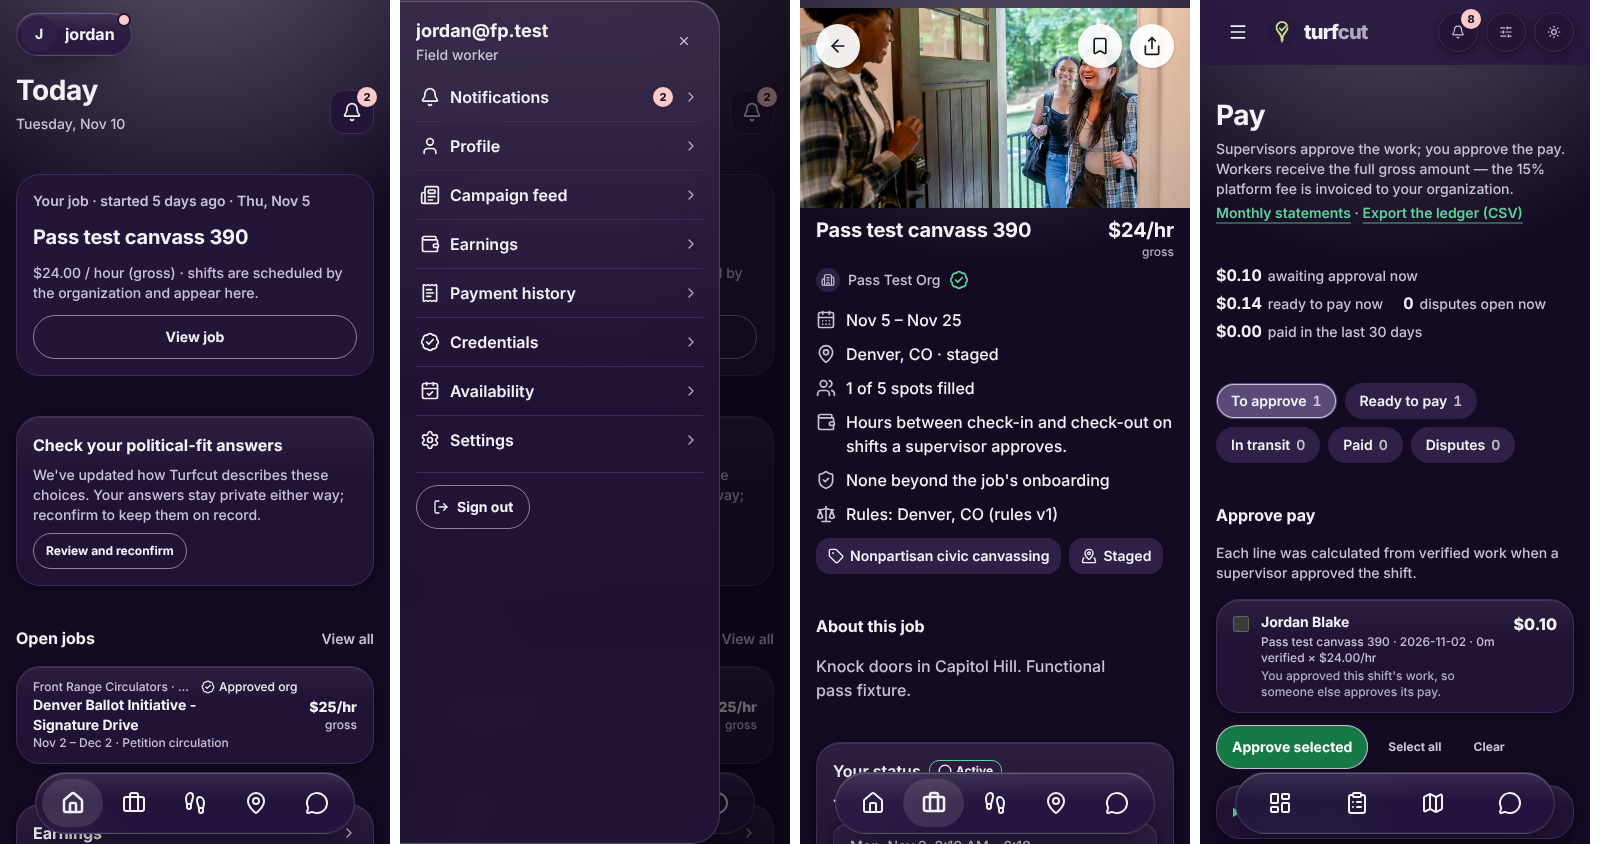
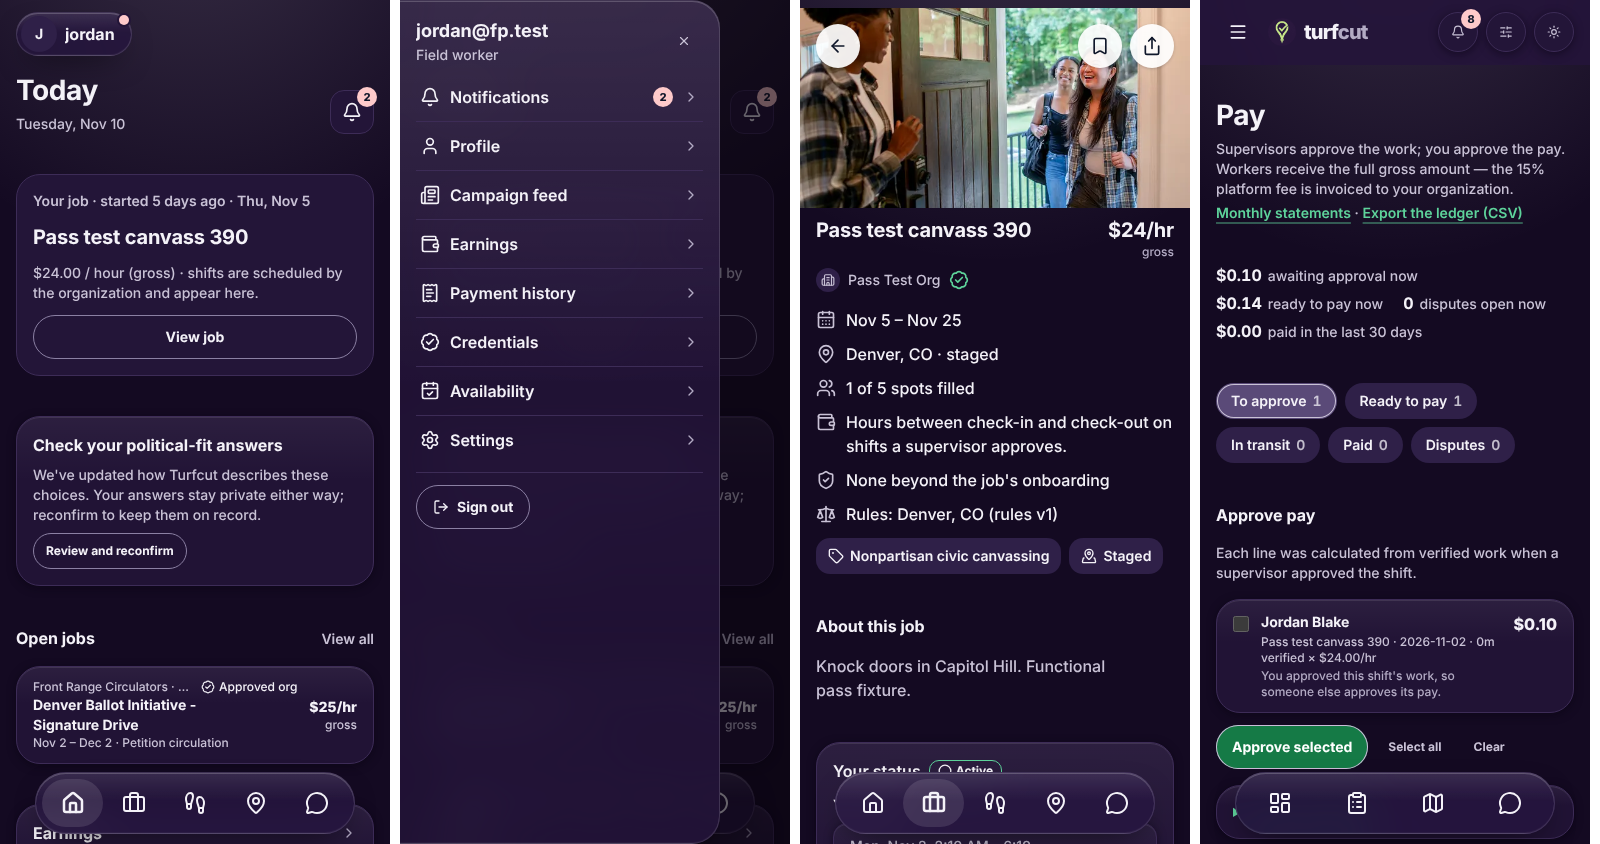
Liquid Glass: review fixes
Fields keep the page's hairline; bars with small grey text are a denser pane
(tested against the worst case behind them); a gentler page wash; the header
returns to the page colour when solid; the dock gets an ink edge; no nested
blur; solid swipe cards.

Claude-Session: https://claude.ai/code/session_01M5jonG7B326Ty4GJKyZ5gK

Changed region(s): [[0.0312, 0.0, 0.2188, 0.0616], [0.5312, 0.0, 0.6875, 0.0308]]

diff --git a/src/app/globals.css b/src/app/globals.css
@@ -189,13 +189,14 @@
   /* Liquid Glass by night: a dimmer pane, a fainter lit edge. */
   --glass-bg: color-mix(in srgb, var(--surface) 74%, transparent);
   --glass-bg-strong: color-mix(in srgb, var(--surface) 82%, transparent);
+  --glass-bg-bar: color-mix(in srgb, var(--surface) 88%, transparent);
   --glass-border: rgb(255 255 255 / 0.14);
   --glass-highlight: inset 0 1px 0 rgb(255 255 255 / 0.2), inset 0 -1px 0 rgb(255 255 255 / 0.04), 0 12px 32px -14px rgb(0 0 0 / 0.7);
   --glass-sheen: linear-gradient(180deg, rgb(255 255 255 / 0.1), rgb(255 255 255 / 0) 46%);
   --card-bg: color-mix(in srgb, var(--surface) 88%, transparent);
   --card-edge: inset 0 1px 0 rgb(255 255 255 / 0.1);
   --card-sheen: linear-gradient(180deg, rgb(255 255 255 / 0.05), rgb(255 255 255 / 0) 38%);
-  --page-wash: radial-gradient(130% 34rem at 50% -8rem, color-mix(in srgb, var(--ring) 38%, transparent), transparent 72%);
+  --page-wash: radial-gradient(130% 34rem at 50% -8rem, color-mix(in srgb, var(--ring) 17%, transparent), transparent 72%);
 }
 
 .sun {
@@ -258,6 +259,10 @@
   /* Sunlight is for glare: nothing translucent, the dock its black frame again. */
   --glass-bg: var(--surface);
   --glass-bg-strong: var(--surface);
+  --glass-bg-bar: var(--surface);
+  --header-bg: var(--bg);
+  --dock-border: var(--shell-edge);
+  --dock-ring: var(--shell-bg);
   --glass-border: var(--border);
   --glass-highlight: 0 0 0 0 transparent;
   --glass-filter: none;
@@ -283,6 +288,9 @@ html {
      soft drop. Sunlight and "reduce transparency" make all of it solid again (below). */
   --glass-bg: color-mix(in srgb, var(--surface) 62%, transparent);
   --glass-bg-strong: color-mix(in srgb, var(--surface) 80%, transparent);
+  /* Bars that carry small secondary text (the header, a thread's bar, the composer, map credits): denser, so it reads over anything. */
+  --glass-bg-bar: color-mix(in srgb, var(--surface) 88%, transparent);
+  --header-bg: var(--glass-bg-bar);
   --glass-border: color-mix(in srgb, #ffffff 60%, var(--border));
   --glass-highlight: inset 0 1px 0 rgb(255 255 255 / 0.75), inset 0 -1px 0 rgb(255 255 255 / 0.18), 0 10px 30px -14px rgb(28 15 46 / 0.3);
   --glass-filter: blur(22px) saturate(180%);
@@ -295,8 +303,10 @@ html {
   --dock-fg: var(--fg);
   --dock-current-fg: var(--fg);
   --dock-capsule: color-mix(in srgb, var(--fg) 12%, transparent);
+  --dock-border: color-mix(in srgb, var(--fg) 14%, transparent);
+  --dock-ring: var(--surface);
   /* A wash of the brand's sky at the top of every page, for the glass to pick up. */
-  --page-wash: radial-gradient(130% 34rem at 50% -8rem, color-mix(in srgb, var(--sky) 75%, transparent), transparent 72%);
+  --page-wash: radial-gradient(130% 34rem at 50% -8rem, color-mix(in srgb, var(--sky) 40%, transparent), transparent 72%);
   --hero-bg: var(--hero);
   /* Shape, rounder throughout (Caden's reference, Nov 10): xs 10 · sm 14 · md 24 · lg 28 · xl 32.
      Cards md, fields, thumbnails and job rows sm, tags and small tiles xs, the drawer and sheets lg.
@@ -1174,8 +1184,8 @@ body {
   .field {
     @apply block w-full min-h-11 rounded-[var(--radius-control)] border px-3 py-2 text-base text-fg sm:text-sm;
     background: var(--field);
-    /* The same hairline as the tab bar. */
-    border-color: var(--glass-border);
+    /* The page's own hairline (not the glass edge, which is near white by day). */
+    border-color: var(--border);
     box-shadow: var(--card-edge);
   }
   .field::placeholder {
@@ -1660,7 +1670,7 @@ body {
     inset-inline: 12px;
     bottom: calc(10px + env(safe-area-inset-bottom));
     background: var(--glass-sheen), var(--dock-bg);
-    border: 1px solid var(--glass-border);
+    border: 1px solid var(--dock-border);
     -webkit-backdrop-filter: var(--glass-filter);
     backdrop-filter: var(--glass-filter);
     color: var(--dock-fg);
@@ -1780,7 +1790,7 @@ body {
   }
   .tab .unread-badge {
     @apply absolute top-0.5 left-1/2 ml-1.5 min-w-[1.25rem] px-1 text-[0.7rem] leading-[1.25rem];
-    box-shadow: 0 0 0 2px var(--surface);
+    box-shadow: 0 0 0 2px var(--dock-ring);
   }
   /* Two or three places under one tab (Jobs: Find work / My schedule): a
      segmented control, the current one an eggplant tile like the dock's. */
@@ -2421,7 +2431,7 @@ body {
   }
   .swipe-card {
     @apply relative rounded-[var(--radius-card)] border border-border p-4 transition-colors sm:p-5;
-    background: var(--card-sheen), var(--card-bg);
+    background: var(--card-sheen), var(--surface);
     box-shadow: var(--card-edge), var(--shadow-depth);
     touch-action: pan-y;
   }
@@ -2725,7 +2735,7 @@ body {
   .composer {
     @apply sticky z-30 -mx-4 space-y-2 border-t px-4 pt-3 pb-3 sm:-mx-6 sm:px-6 lg:bottom-0;
     bottom: calc(6rem + env(safe-area-inset-bottom));
-    background: var(--glass-bg);
+    background: var(--glass-bg-bar);
     border-color: var(--glass-border);
     -webkit-backdrop-filter: var(--glass-filter);
     backdrop-filter: var(--glass-filter);
@@ -2759,7 +2769,7 @@ body {
   /* z-50: its ··· menu must open above the composer and the tab bar. */
   .thread-top {
     @apply sticky top-0 z-50 -mx-4 -mt-4 space-y-3 border-b px-4 pt-3 pb-3 sm:-mx-6 sm:px-6;
-    background: var(--glass-bg);
+    background: var(--glass-bg-bar);
     border-color: var(--glass-border);
     -webkit-backdrop-filter: var(--glass-filter);
     backdrop-filter: var(--glass-filter);
@@ -2847,7 +2857,7 @@ body {
   padding: 2px 8px;
   border-radius: 9999px;
   color: var(--muted);
-  background: var(--glass-bg);
+  background: var(--glass-bg-bar);
   border: 1px solid var(--glass-border);
   -webkit-backdrop-filter: var(--glass-filter);
   backdrop-filter: var(--glass-filter);
@@ -2955,7 +2965,7 @@ summary.list-none::-webkit-details-marker {
    scrolls under it (not in chat threads, which pin their own top bar). */
 .site-header {
   /* Glass: content scrolls under it, blurred. No line under it. */
-  background: var(--glass-bg);
+  background: var(--header-bg);
   -webkit-backdrop-filter: var(--glass-filter);
   backdrop-filter: var(--glass-filter);
   border-color: transparent;
@@ -3531,11 +3541,25 @@ summary.list-none::-webkit-details-marker {
   .dark {
     --glass-bg: var(--surface);
     --glass-bg-strong: var(--surface);
+    --glass-bg-bar: var(--surface);
+    --header-bg: var(--bg);
     --glass-border: var(--border);
+    --glass-highlight: var(--shadow-depth);
+    --card-edge: 0 0 0 0 transparent;
+    --dock-border: var(--border);
     --glass-filter: none;
     --glass-sheen: none;
     --card-bg: var(--surface);
     --card-sheen: none;
     --page-wash: none;
   }
+}
+/* Buttons inside a glass bar sit on its pane already: no second blur. A thread pins its bar under
+   the status bar, so the wash would show as a strip above it. */
+:is(.thread-top, .composer) .icon-btn {
+  -webkit-backdrop-filter: none;
+  backdrop-filter: none;
+}
+body:has(.thread-top) {
+  --page-wash: none;
 }

diff --git a/src/lib/design-tokens.test.ts b/src/lib/design-tokens.test.ts
@@ -143,7 +143,19 @@ describe.each([
     }
     // Anyone who asks for less transparency or more contrast gets solid surfaces.
     expect(css).toMatch(/@media \(prefers-reduced-transparency: reduce\), \(prefers-contrast: more\), \(forced-colors: active\) \{\s*html,\s*\.dark \{\s*--glass-bg: var\(--surface\);/);
-    expect(css).toMatch(/\.site-header \{[^}]*?background: var\(--glass-bg\);/);
+    expect(css).toMatch(/\.site-header \{[^}]*?background: var\(--header-bg\);/);
+    // Bars with small secondary text are denser panes: muted text holds AA over the worst thing behind them.
+    expect(css).toMatch(/--glass-bg-bar: color-mix\(in srgb, var\(--surface\) 88%, transparent\);\s*--header-bg: var\(--glass-bg-bar\);/);
+    if (name !== "sunlight") expect(ratio(t.muted, mix(t.surface, 0.88, name === "dark" ? "#ffffff" : "#000000"))).toBeGreaterThanOrEqual(4.5);
+    // Sunlight and the solid fallback name every pane, and the header goes back to the page colour.
+    for (const body of [themeBody(css, ".sun"), css.slice(css.indexOf("@media (prefers-reduced-transparency: reduce)"))]) {
+      for (const k of ["glass-bg", "glass-bg-strong", "glass-bg-bar", "glass-filter", "glass-sheen", "card-bg", "card-sheen", "page-wash"]) expect(body).toMatch(new RegExp(`--${k}: (var\\(--surface\\)|none);`));
+      expect(body).toMatch(/--header-bg: var\(--bg\);/);
+    }
+    // A field keeps the page's hairline, not the glass edge.
+    expect(css).toMatch(/\.field \{[^}]*?border-color: var\(--border\);/);
+    // The dock's edge is drawn in ink, so it stands apart from the page without leaning on its shadow.
+    expect(css).toMatch(/\.tabbar \{[^}]*?border: 1px solid var\(--dock-border\);/);
     expect(css).toMatch(/\.eyebrow \{[^}]*?color: var\(--kicker\);/);
     // Print drops the menu strip with the dock, and the admin console shows no menu.
     expect(css).toMatch(/\.site-header, \.tabbar, \.phone-top, \.no-print, nextjs-portal \{ display: none !important; \}/);
@@ -417,7 +429,7 @@ describe("the ten locked colours (founder's twelve-screen concept, #111)", () =>
       for (const [, name, value] of body.matchAll(/--([\w-]+):\s*([^;]+);/g)) {
         if (/^#[0-9a-fA-F]{6}$/.test(value.trim())) expect(parsed[name]).toBe(value.trim());
         else if (name === "hero-border") expect(value.trim()).toBe("transparent");
-        else expect(name).toMatch(/^(shadow|shadow-depth|glass-[\w-]+|card-[\w-]+|dock-[\w-]+|page-wash)$/); // the only non-colour tokens: shadows and the glass recipe
+        else expect(name).toMatch(/^(shadow|shadow-depth|glass-(bg|bg-strong|bg-bar|border|highlight|filter|sheen)|card-(bg|edge|sheen)|dock-(bg|fg|border|ring)|header-bg|page-wash)$/); // the only non-colour tokens: shadows and the glass recipe
       }
     }
   });

diff --git a/docs/design/hero-board/evidence/liquid-glass-2026-11-10/README.md b/docs/design/hero-board/evidence/liquid-glass-2026-11-10/README.md
@@ -18,9 +18,21 @@ All evidence is the running app on the local test database in Chromium. It is no
 - The dock test now checks the worst case behind the pane: black under the day's glass, white under the night's. The icons stay at 4.5:1 or better on the pane and on the current capsule. That check set the night pane at 74% (70% measured 4.40:1).
 - `sweep.txt`: the 31-page sweep, no sideways overflow.
 
+## Review
+
+A separate Claude reviewer measured the glass in light, dark, Sunlight, reduced transparency, more contrast and forced colours, and found nothing broken. Its findings, fixed:
+- form fields had picked up the glass edge, which is near white by day, and lost their outline (they keep the page's hairline again);
+- small grey text on the header, a chat thread's bar, the composer and the map credits could drop below AA when something dark scrolled underneath (those bars are now a denser pane, 88%, and a test checks the worst case);
+- the page wash was strong enough to dim grey text at the top of a page (now 40% by day, 17% by night);
+- in Sunlight and the solid fallback the header turned card-white instead of the page colour, and the fallback kept the lit edges;
+- the dock's edge leaned on its shadow alone (now a faint ink line);
+- the unread badge's ring, a second blur on buttons inside glass bars, a card that showed its swipe colour through, and a tinted strip above a chat thread's bar.
+
+The screenshots and `sweep.txt` here were retaken after these fixes.
+
 ## Evidence
 
-- `light.png`: worker Home, Jobs, a job's page, an organization's Overview, 390 wide.
+- `light.png`: worker Home, Jobs, a chat thread, an organization's Field map, 390 wide.
 - `dark.png`: worker Home, the drawer open, a job's page, an organization's Pay, 390 wide, dark.
 - `dark-desktop-1280.png`: an organization's Overview with the sidebar, dark.
 
